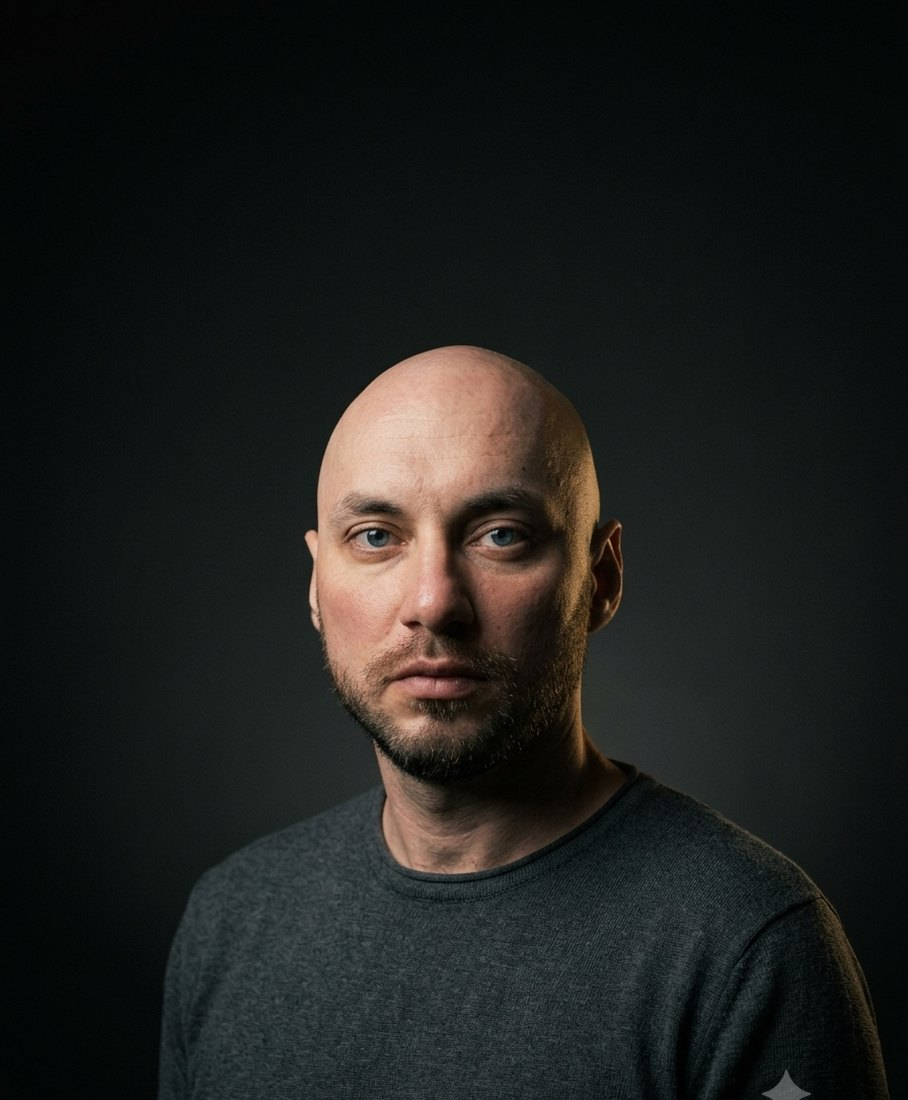
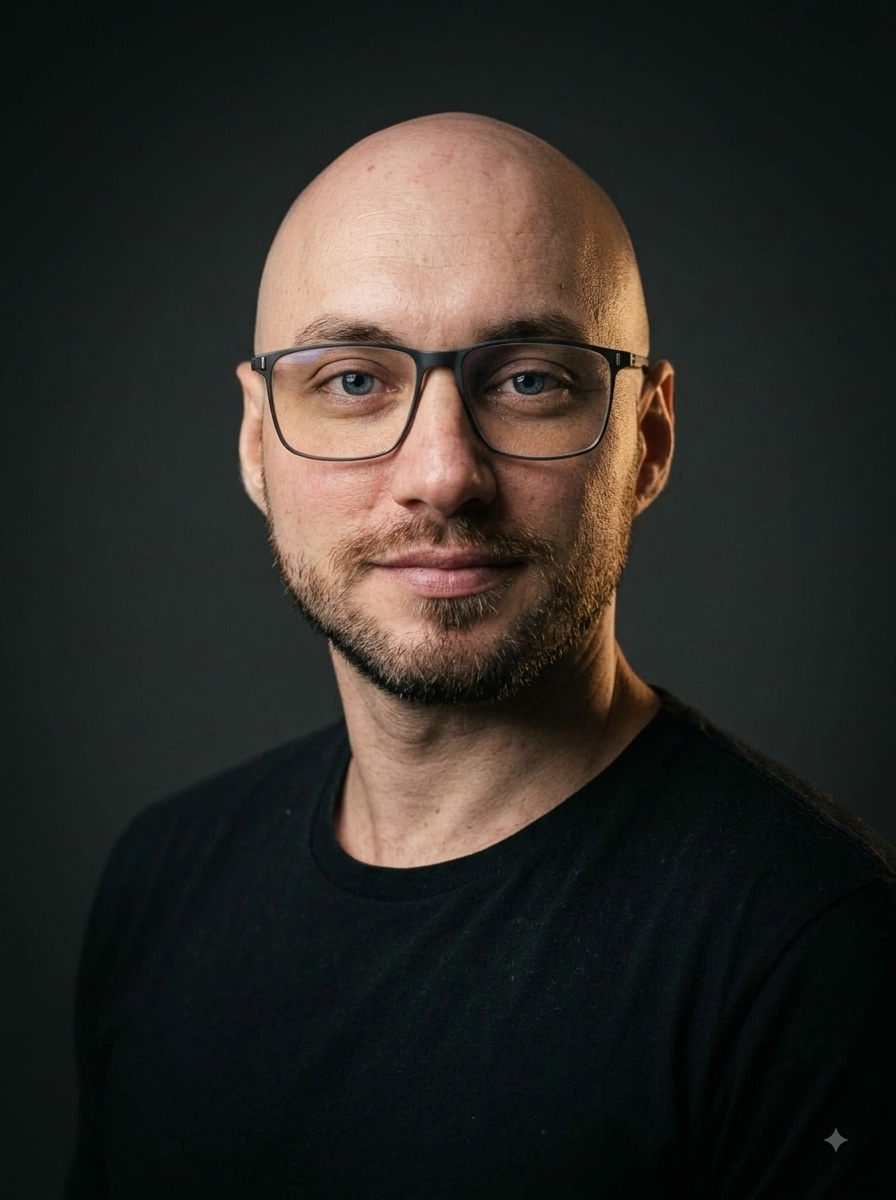
feat: update header portrait, retune bleed framing
New portrait has a tighter crop than the old one, so the bleed's
background-size/position needed adjusting on both desktop and mobile
to avoid cropping the top of the head.

diff --git a/assets/css/bevel.css b/assets/css/bevel.css
@@ -53,7 +53,7 @@ a{color:inherit;text-decoration:none}
 .bleed-img{
   position:absolute;inset:0;
   background-image:var(--portrait);
-  background-size:auto 116%;background-position:58% 90%;
+  background-size:auto 110%;background-position:56% 38%;
   filter:saturate(.42) contrast(1.04) brightness(.86);
   -webkit-mask-image:linear-gradient(to left,#000 0%,#000 42%,rgba(0,0,0,.62) 68%,rgba(0,0,0,.16) 87%,transparent 100%);
   mask-image:linear-gradient(to left,#000 0%,#000 42%,rgba(0,0,0,.62) 68%,rgba(0,0,0,.16) 87%,transparent 100%);
@@ -167,6 +167,7 @@ footer{margin-top:12vh;padding:2.6rem 0 7rem;border-top:1px solid var(--hair);di
   .namemark{max-width:none}
   .bleed{width:100%;height:62vh}
   .bleed-img{
+    background-size:auto 100%;background-position:56% 0%;
     filter:saturate(.35) contrast(1.02) brightness(.42);
     -webkit-mask-image:linear-gradient(to bottom,#000 0%,rgba(0,0,0,.5) 55%,transparent 100%);
     mask-image:linear-gradient(to bottom,#000 0%,rgba(0,0,0,.5) 55%,transparent 100%);
